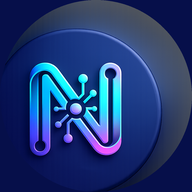
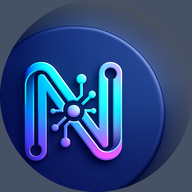
Add files via upload

diff --git a/src/components/AddToHomeScreen.jsx b/src/components/AddToHomeScreen.jsx
@@ -4,22 +4,16 @@ import { Smartphone, Share, Plus, MoreVertical, X, Check } from "lucide-react";
 /*
   AddToHomeScreen
   ----------------
-  Drop-in helper for the resident portal. It does three things:
+  1. Gives the saved home-screen shortcut the building's own icon + name (falls
+     back to the default NaloHub icon in index.html / public/).
+  2. First-visit card (remembered per device).
+  3. Floating "Add to Home Screen" button with iPhone/Android steps.
 
-  1. Gives the saved home-screen shortcut THIS building's own icon + name,
-     by injecting <link rel="apple-touch-icon"> / icon / manifest at runtime
-     from `building.logoImage` and `building.name`. (Baseline NaloHub icon in
-     index.html is the fallback if a building has no logo, or on browsers that
-     ignore data-URI icons.)
-  2. Shows a friendly, dismissible first-visit card (remembered per device).
-  3. Shows a step-by-step modal (iPhone vs Android) reachable any time from the
-     floating "Add to Home Screen" button — and uses Chrome's native install
-     prompt when available.
+  Auto-hides for good once the app is installed (Android fires `appinstalled`;
+  iOS hides when opened from the Home Screen). A small "×" lets anyone dismiss
+  it permanently if it persists.
 
-  Usage (in App.jsx, building mode):
-      import AddToHomeScreen from "./components/AddToHomeScreen.jsx";
-      ...
-      <AddToHomeScreen building={building} />
+  Usage in App.jsx (building mode):  <AddToHomeScreen building={building} />
 */
 
 const BRAND = "#0e7490";
@@ -31,8 +25,7 @@ function detect() {
     (navigator.platform === "MacIntel" && navigator.maxTouchPoints > 1);
   const android = /android/i.test(ua);
   const standalone =
-    window.matchMedia &&
-    window.matchMedia("(display-mode: standalone)").matches;
+    window.matchMedia && window.matchMedia("(display-mode: standalone)").matches;
   const iosInstalled = window.navigator.standalone === true;
   return { iOS, android, installed: standalone || iosInstalled };
 }
@@ -45,11 +38,26 @@ export default function AddToHomeScreen({ building }) {
   const name = (building && building.name) || "NaloHub";
   const logo = (building && building.logoImage) || "";
 
+  // Has the button been retired (installed before, or dismissed)?
+  const [gone, setGone] = useState(() => {
+    try {
+      return localStorage.getItem("nalo_ath_gone") === "1";
+    } catch (e) {
+      return false;
+    }
+  });
+  const banish = () => {
+    setGone(true);
+    setShowCard(false);
+    try {
+      localStorage.setItem("nalo_ath_gone", "1");
+    } catch (e) {}
+  };
+
   // 1. Per-building home-screen icon, title and manifest
   useEffect(() => {
     if (!building) return;
     const head = document.head;
-
     const upsertLink = (rel) => {
       let el = head.querySelector(`link[data-nalo="${rel}"]`);
       if (!el) {
@@ -69,7 +77,6 @@ export default function AddToHomeScreen({ building }) {
       }
       return el;
     };
-
     if (logo) {
       upsertLink("apple-touch-icon").setAttribute("href", logo);
       upsertLink("icon").setAttribute("href", logo);
@@ -78,8 +85,6 @@ export default function AddToHomeScreen({ building }) {
     upsertMeta("apple-mobile-web-app-capable").setAttribute("content", "yes");
     upsertMeta("mobile-web-app-capable").setAttribute("content", "yes");
     document.title = name + " — NaloHub";
-
-    // Dynamic manifest (Android/Chrome) so the install carries the building name + icon
     try {
       const manifest = {
         name,
@@ -98,22 +103,20 @@ export default function AddToHomeScreen({ building }) {
               { src: "/icon-512.png", sizes: "512x512", type: "image/png", purpose: "any maskable" },
             ],
       };
-      const blob = new Blob([JSON.stringify(manifest)], {
-        type: "application/manifest+json",
-      });
+      const blob = new Blob([JSON.stringify(manifest)], { type: "application/manifest+json" });
       const url = URL.createObjectURL(blob);
-      const ml = head.querySelector('link[rel="manifest"]') || (() => {
-        const l = document.createElement("link");
-        l.setAttribute("rel", "manifest");
-        head.appendChild(l);
-        return l;
-      })();
+      const ml =
+        head.querySelector('link[rel="manifest"]') ||
+        (() => {
+          const l = document.createElement("link");
+          l.setAttribute("rel", "manifest");
+          head.appendChild(l);
+          return l;
+        })();
       const prev = ml.getAttribute("href");
       ml.setAttribute("href", url);
       if (prev && prev.startsWith("blob:")) URL.revokeObjectURL(prev);
-    } catch (e) {
-      /* manifest is best-effort */
-    }
+    } catch (e) {}
   }, [building, name, logo]);
 
   // 2. Capture Chrome's native install prompt
@@ -126,9 +129,16 @@ export default function AddToHomeScreen({ building }) {
     return () => window.removeEventListener("beforeinstallprompt", onPrompt);
   }, []);
 
+  // 2b. Auto-hide for good once the app has been installed (Android/desktop)
+  useEffect(() => {
+    const onInstalled = () => banish();
+    window.addEventListener("appinstalled", onInstalled);
+    return () => window.removeEventListener("appinstalled", onInstalled);
+  }, []);
+
   // 3. First-visit card (once per device)
   useEffect(() => {
-    if (env.installed) return;
+    if (env.installed || gone) return;
     let seen = false;
     try {
       seen = localStorage.getItem("nalo_ath_seen") === "1";
@@ -137,7 +147,7 @@ export default function AddToHomeScreen({ building }) {
       const t = setTimeout(() => setShowCard(true), 1200);
       return () => clearTimeout(t);
     }
-  }, [env.installed]);
+  }, [env.installed, gone]);
 
   const dismissCard = () => {
     setShowCard(false);
@@ -155,22 +165,19 @@ export default function AddToHomeScreen({ building }) {
     if (!e) return;
     e.prompt();
     try {
-      await e.userChoice;
+      const choice = await e.userChoice;
+      if (choice && choice.outcome === "accepted") banish();
     } catch (err) {}
     deferred.current = null;
     setOpen(false);
   };
 
-  // Don't show anything when already running as an installed app
-  if (env.installed) return null;
+  // Hidden when running as an installed app, or once installed/dismissed
+  if (env.installed || gone) return null;
 
   const IconPreview = () => (
     <div style={{ display: "flex", alignItems: "center", gap: 10, margin: "2px 0 14px" }}>
-      {logo ? (
-        <img src={logo} alt="" style={{ width: 52, height: 52, borderRadius: 12, objectFit: "cover" }} />
-      ) : (
-        <img src="/icon-192.png" alt="" style={{ width: 52, height: 52, borderRadius: 12 }} />
-      )}
+      <img src={logo || "/icon-192.png"} alt="" style={{ width: 52, height: 52, borderRadius: 12, objectFit: "cover" }} />
       <div>
         <div style={{ fontWeight: 700, fontSize: 14 }}>{name}</div>
         <div style={{ fontSize: 12, color: "#64748b" }}>Your building, one tap away</div>
@@ -189,20 +196,35 @@ export default function AddToHomeScreen({ building }) {
 
   return (
     <>
-      {/* Floating, always-available launcher */}
-      <button
-        onClick={() => setOpen(true)}
-        aria-label="Add to Home Screen"
-        style={{
-          position: "fixed", right: 14, bottom: 14, zIndex: 80,
-          display: "inline-flex", alignItems: "center", gap: 8,
-          background: `linear-gradient(135deg, ${BRAND}, #22d3ee)`, color: "#04222e",
-          border: "none", borderRadius: 999, padding: "10px 16px",
-          fontWeight: 700, fontSize: 13, boxShadow: "0 6px 20px rgba(0,0,0,0.35)", cursor: "pointer",
-        }}
-      >
-        <Smartphone size={16} /> Add to Home Screen
-      </button>
+      {/* Floating launcher with a dismiss × */}
+      <div style={{ position: "fixed", right: 14, bottom: 14, zIndex: 80, display: "inline-flex", alignItems: "center" }}>
+        <button
+          onClick={() => setOpen(true)}
+          aria-label="Add to Home Screen"
+          style={{
+            display: "inline-flex", alignItems: "center", gap: 8,
+            background: `linear-gradient(135deg, ${BRAND}, #22d3ee)`, color: "#04222e",
+            border: "none", borderRadius: "999px 0 0 999px", padding: "10px 14px 10px 16px",
+            fontWeight: 700, fontSize: 13, boxShadow: "0 6px 20px rgba(0,0,0,0.35)", cursor: "pointer",
+          }}
+        >
+          <Smartphone size={16} /> Add to Home Screen
+        </button>
+        <button
+          onClick={banish}
+          aria-label="Dismiss"
+          title="Don't show this again"
+          style={{
+            display: "inline-flex", alignItems: "center", justifyContent: "center",
+            background: "#0b5566", color: "#cdeef5", border: "none",
+            borderRadius: "0 999px 999px 0", padding: "10px 10px",
+            boxShadow: "0 6px 20px rgba(0,0,0,0.35)", cursor: "pointer",
+            borderLeft: "1px solid rgba(255,255,255,0.18)",
+          }}
+        >
+          <X size={15} />
+        </button>
+      </div>
 
       {/* First-visit card */}
       {showCard && (
@@ -233,7 +255,6 @@ export default function AddToHomeScreen({ building }) {
             </div>
             <div style={{ padding: 16, overflowY: "auto" }}>
               <IconPreview />
-
               {env.iOS && (
                 <>
                   <div style={{ fontSize: 12, fontWeight: 700, color: "#64748b", textTransform: "uppercase", letterSpacing: 1 }}>On iPhone / iPad (Safari)</div>
@@ -242,7 +263,6 @@ export default function AddToHomeScreen({ building }) {
                   <Step n={3} icon={<Check size={16} color={BRAND} />}>Tap <b>Add</b> — done</Step>
                 </>
               )}
-
               {!env.iOS && (
                 <>
                   <div style={{ fontSize: 12, fontWeight: 700, color: "#64748b", textTransform: "uppercase", letterSpacing: 1 }}>On Android (Chrome)</div>